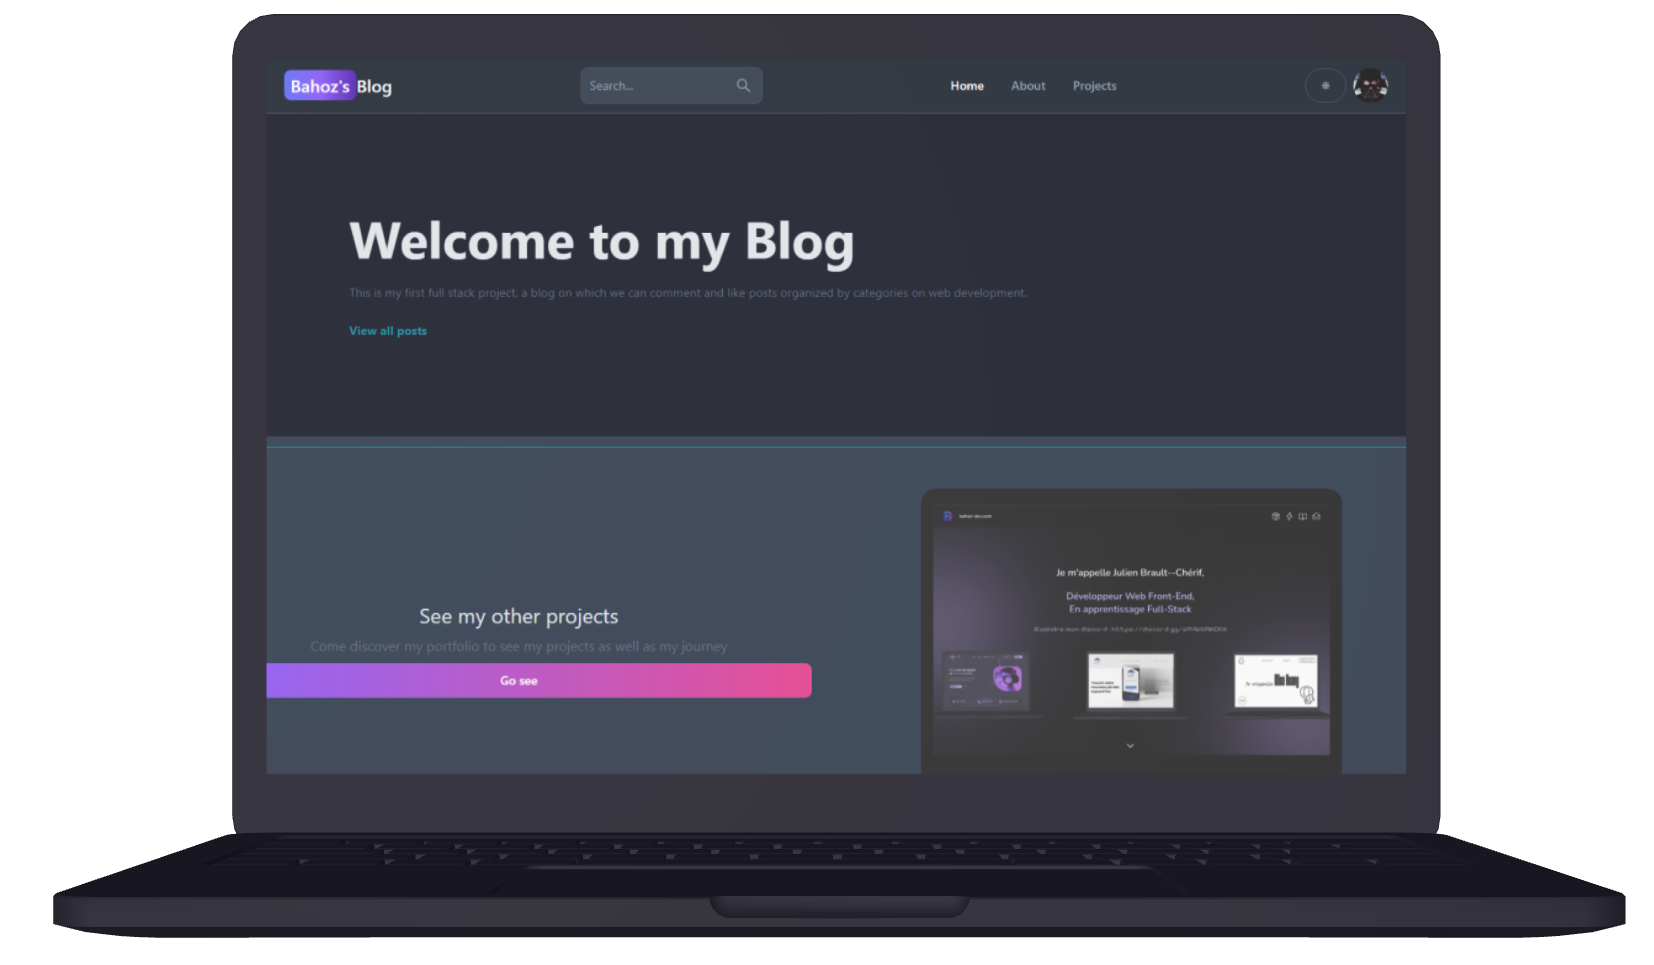
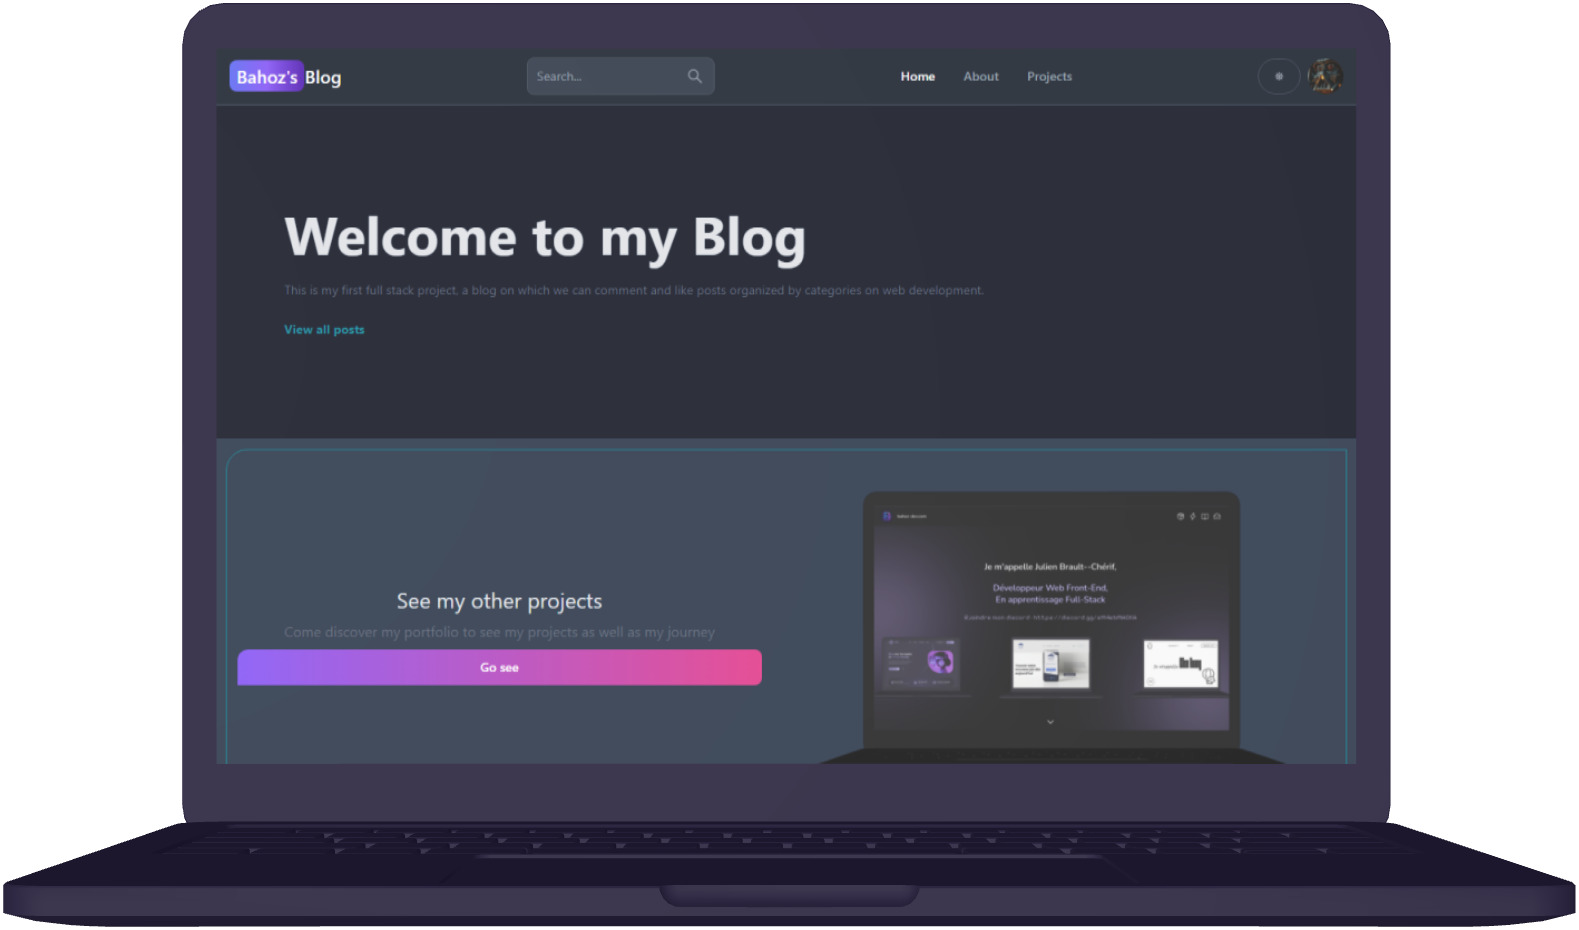
maj img et hover header

diff --git a/src/global-code/components-css/Header.css b/src/global-code/components-css/Header.css
@@ -122,12 +122,12 @@
   .hover-img {
     background: rgba(0, 0, 0, 0.5);
     position: absolute;
-    width: 58vw;
-    height: 40vw;
+    width: 61.2vw;
+    height: 41.5vw;
     transform: translate(-50%, 0);
-    left: 50.5%;
-    top: 20px;
-    border-radius: 8px;
+    left: 49.7%;
+    top: 2px;
+    border-radius: 18px 18px 8px 8px;
     display: flex;
     justify-content: center;
     align-items: center;
@@ -146,11 +146,11 @@
     width: 28vw;
   }
   .hover-img {
-    width: 20.4vw;
-    height: 14vw;
-    left: 50.5%;
-    top: 10px;
-    border-radius: 10px;
+    width: 21.4vw;
+    height: 14.5vw;
+    left: 49.8%;
+    top: 1px;
+    border-radius: 10px 10px 0 0;
   }
   .container-projects {
     gap: 50px;
@@ -162,9 +162,6 @@
 @media (min-width: 1440px) {
   #header {
     padding: 130px 100px 0;
-  }
-  .hover-img {
-    height: 14.15vw;
   }
   .container-projects {
     gap: 70px;
